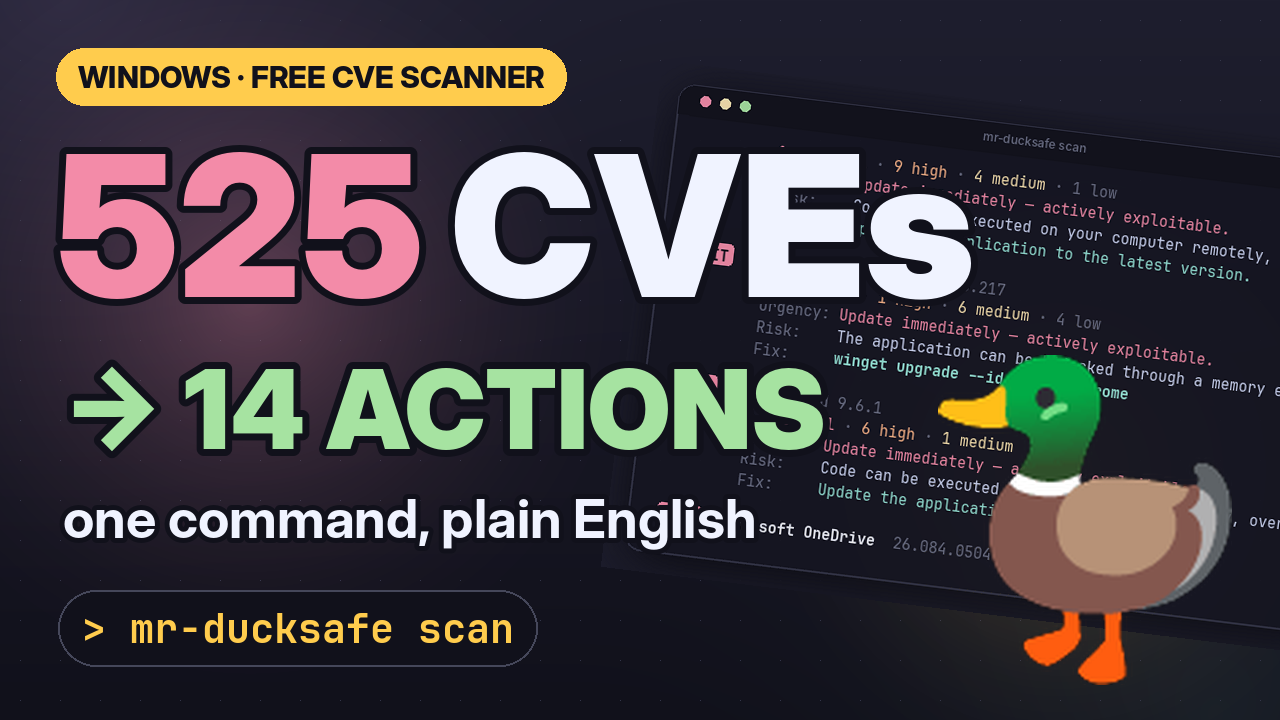
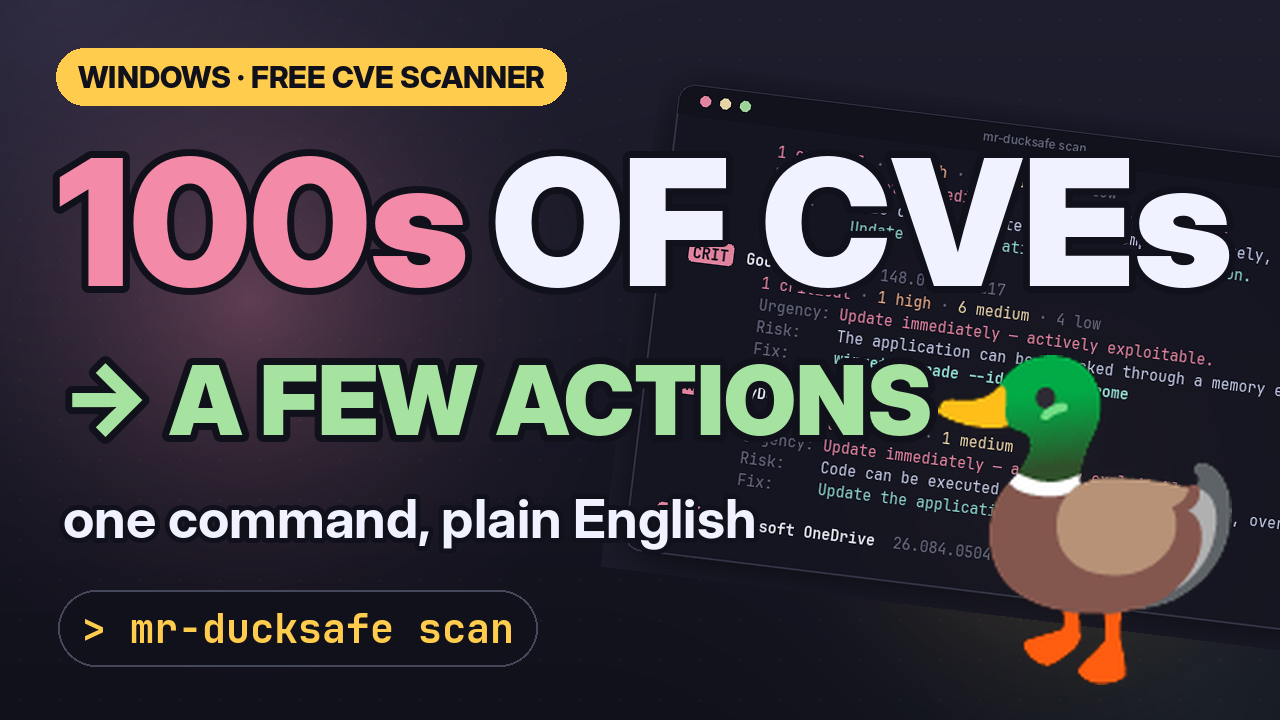
media: generic thumbnail claim (100s of CVEs → a few actions)
525 → 14 is what one sample scan found, not a promise for every PC. The
thumbnail, README image alt texts and YouTube texts now make the
generic claim; the YouTube description keeps 525 only as the demo
example.

Changed region(s): [[0.0312, 0.1833, 0.9688, 0.4278], [0.0312, 0.4889, 0.75, 0.6417]]

diff --git a/scripts/video/render_video.py b/scripts/video/render_video.py
@@ -1415,10 +1415,12 @@ def render_thumbnail():
     pill(img, "WINDOWS · FREE CVE SCANNER", 56, 48, 30, CRUST, DUCK, None, "lt", 1, "xbold",
          padx=22, pady=10)
     x = 50
-    w1 = tw("525 ", "black", 196)
-    txt(img, "525", x, 100, "black", 196, RED, stroke=stroke)
-    txt(img, "CVEs", x + w1 - 8, 100, "black", 196, WHITE, stroke=stroke)
-    txt(img, "→ 14 ACTIONS", x + 4, 335, "black", 110, GREEN, stroke=stroke)
+    # Generic claim on purpose: a specific count (e.g. 525) reads like a
+    # promise about every PC, but it is only what one sample scan found.
+    w1 = tw("100s ", "black", 176)
+    txt(img, "100s", x, 108, "black", 176, RED, stroke=stroke)
+    txt(img, "OF CVEs", x + w1 - 8, 108, "black", 176, WHITE, stroke=stroke)
+    txt(img, "→ A FEW ACTIONS", x + 4, 335, "black", 96, GREEN, stroke=stroke)
     txt(img, "one command, plain English", x + 8, 480, "bold", 54, WHITE, stroke=5)
     pill(img, "> mr-ducksafe scan", 58, 590, 40, DUCK, CRUST, SURF1, "lt", 1, "monob",
          padx=24, pady=12)

diff --git a/docs/media/YOUTUBE.md b/docs/media/YOUTUBE.md
@@ -17,17 +17,17 @@ are synthesized in code, so there is nothing to credit or license.
 **Title** (≤ 100 characters)
 
 ```
-525 Vulnerabilities on One Windows PC? Find Them With One Command — mr-ducksafe (Free CVE Scanner)
+Hundreds of Known Vulnerabilities on Your PC? Find Them With One Command — mr-ducksafe (Free CVE Scanner)
 ```
 
 Alternatives:
-- `525 CVEs → 14 Actions: Find Outdated, Vulnerable Software on Windows in One Command`
+- `Hundreds of CVEs → A Few Actions: Find Outdated, Vulnerable Software on Windows in One Command`
 - `mr-ducksafe: a Free, Open-Source CVE Scanner for Windows Software`
 
 **Description**
 
 ```
-Chrome, Adobe Reader, Office, AnyDesk, Node.js… old versions of everyday apps carry hundreds of publicly known vulnerabilities (CVEs). mr-ducksafe scans the software installed on Windows, checks it against the official NVD CVE database, and turns "525 vulnerabilities" into "14 actions" — explained in plain language, each with a fix command.
+Chrome, Adobe Reader, Office, AnyDesk, Node.js… old versions of everyday apps carry hundreds of publicly known vulnerabilities (CVEs). mr-ducksafe scans the software installed on Windows, checks it against the official NVD CVE database, and turns hundreds of CVEs into a short list of actions — explained in plain language, each with a fix command. (In the demo, one real developer PC had 525 known CVEs across 14 apps.)
 
 🦆 GitHub: https://github.com/yemresalcan/mr-ducksafe
 
@@ -84,7 +84,7 @@ How many security holes are on your PC? 🦆 #shorts
 
 ```
 One command: mr-ducksafe scan
-525 known vulnerabilities → 14 clear actions, with plain-language risk and a winget fix.
+Hundreds of known vulnerabilities → a few clear actions, with plain-language risk and a winget fix.
 Free & open source: https://github.com/yemresalcan/mr-ducksafe
 
 #shorts #cybersecurity #windows #cve #opensource #devsecops #infosec

diff --git a/README.md b/README.md
@@ -27,7 +27,7 @@ Not 500+ CVEs → ~10 action items. Risk in plain language, fix in one command.
 ## 🎬 Promo Video
 
 <!-- After uploading to YouTube, replace the links below with the video URLs. -->
-<a href="docs/media/mr-ducksafe-youtube.mp4"><img src="docs/media/thumbnail.png" alt="mr-ducksafe promo video — 525 CVEs → 14 actions" width="720"></a>
+<a href="docs/media/mr-ducksafe-youtube.mp4"><img src="docs/media/thumbnail.png" alt="mr-ducksafe promo video — hundreds of CVEs → a few actions" width="720"></a>
 
 - ▶ **YouTube (1:58):** [docs/media/mr-ducksafe-youtube.mp4](docs/media/mr-ducksafe-youtube.mp4) — the problem, how it works, live demo, CI usage, privacy
 - 📱 **Shorts (0:37, vertical):** [docs/media/mr-ducksafe-short.mp4](docs/media/mr-ducksafe-short.mp4)

diff --git a/README.tr.md b/README.tr.md
@@ -27,7 +27,7 @@
 ## 🎬 Tanıtım Videosu
 
 <!-- YouTube'a yükledikten sonra aşağıdaki linkleri video URL'leriyle değiştir. -->
-<a href="docs/media/mr-ducksafe-youtube.mp4"><img src="docs/media/thumbnail.png" alt="mr-ducksafe tanıtım videosu — 525 CVE → 14 aksiyon" width="720"></a>
+<a href="docs/media/mr-ducksafe-youtube.mp4"><img src="docs/media/thumbnail.png" alt="mr-ducksafe tanıtım videosu — yüzlerce CVE → birkaç aksiyon" width="720"></a>
 
 - ▶ **YouTube (1:58):** [docs/media/mr-ducksafe-youtube.mp4](docs/media/mr-ducksafe-youtube.mp4) — sorun, nasıl çalışır, canlı demo, CI kullanımı, gizlilik
 - 📱 **Shorts (0:37, dikey):** [docs/media/mr-ducksafe-short.mp4](docs/media/mr-ducksafe-short.mp4)
